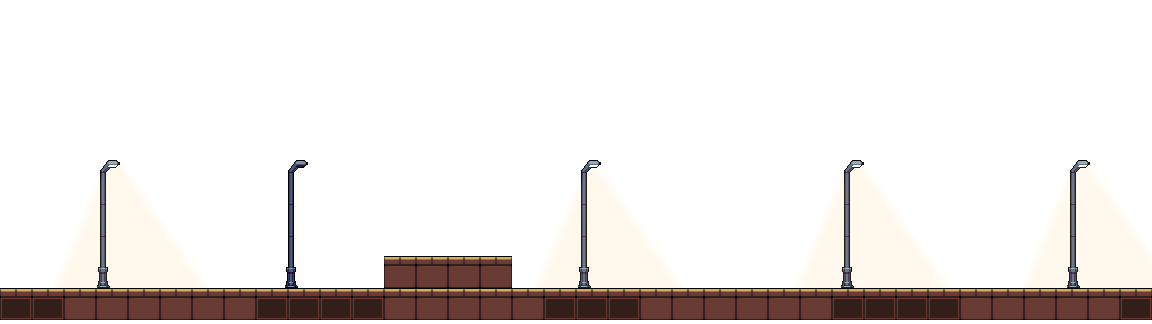
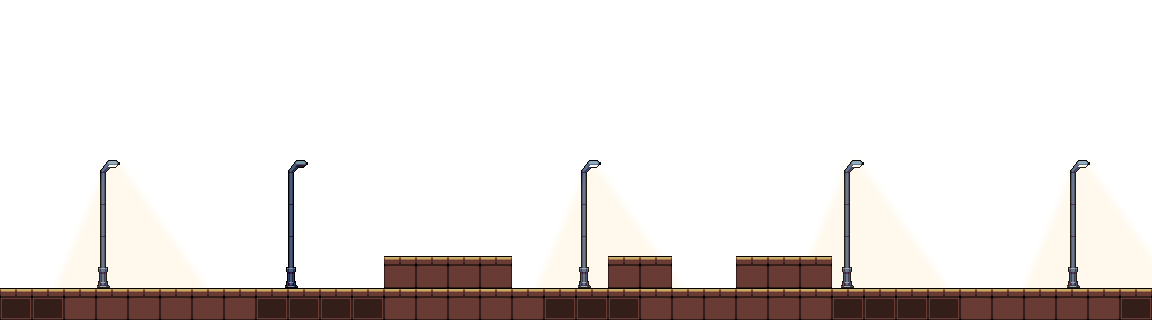
obstacles/platforms now working. jump while on platforms sorted

Changed region(s): [[0.625, 0.7716, 0.75, 0.8951], [0.5, 0.7716, 0.5938, 0.8951]]

diff --git a/js/main.js b/js/main.js
@@ -12,13 +12,6 @@ if(navigator.userAgent.indexOf("Firefox") != -1 ) {
     isFirefox=true;
 }
 
-
-// var tlIntroScreen = gsap.timeline();
-
-
-
-
-
 var bg_canvas = document.getElementById('bg-canvas');
 var bgOverlay_canvas = document.getElementById('bgOverlay-canvas');
 var fg_canvas = document.getElementById('fg-canvas');
@@ -57,7 +50,7 @@ var ctxEnemy = enemy_canvas.getContext('2d');
 var imageAdded= 0,
     imgLoaded = 0;
 
-var full_health = 1000;
+var full_health = 500;
 
 
 
@@ -75,11 +68,12 @@ var paused=false;
 var muted = false;
 var moving_backwards = false; 
 
-var tlJump = gsap.timeline({paused:true, onComplete:function(){
+var tlJump = gsap.timeline({paused:true});
+tlJump = gsap.timeline({paused:true, onStart:function(){  }, onComplete:function(){
     keysWait=false; 
-    isPlayer.jump=false
-    tljump_playing = false;
+    isPlayer.jump=false;
 }});
+
 
 var highlights=false;
 var frameRate = 100;
@@ -307,12 +301,6 @@ function init_renderPlayer() {
         player_jumpBack_img.onload = function(){
             imgLoaded++;
         }
-
-        // tlJump.to(player,.9,{y:player_groundY-player.jumpH,ease:"power3.out"},0).to(player,.8,{y:player_groundY,ease:"sine.in"},"<.7")
-        tlJump.to(player,.9,{y:"-="+player.jumpH+"px",ease:"power3.out",yoyo:true,repeat:1},0)
-        // tlJump.to("#player-canvas",.9,{y:-player.jumpH,ease:"power3.out"},0).to("#player-canvas",.8,{y:0,ease:"sine.in"},"<.7")
-        tlJump.duration(.6);
-
 }
 
 
@@ -365,13 +353,11 @@ function checkKeys(){
                 isPlayer.runBack=false;
                 isPlayer.idle=false;
                 isPlayer.run=true;
-                // keysWait=true;
             } else {
                 moving_backwards = true;
                 isPlayer.idle=false;
                 isPlayer.run=false;
                 isPlayer.runBack=true;
-                // keysWait=true;
             }
         }
         else if (Keyboard.isDown(Keyboard.LEFT)) { 
@@ -387,7 +373,7 @@ function checkKeys(){
         }
 
         if(Keyboard.isDown(Keyboard.UP)){
-            if(!jumping){
+            if(!jumpBtnDown){
                 jump();
             } else {
                 if(!moving_backwards) isPlayer.idle=true;
@@ -395,7 +381,7 @@ function checkKeys(){
             }
         }
         if(!Keyboard.isDown(Keyboard.UP)){
-            jumping=false;
+            jumpBtnDown=false;
         }
 
         if(!Keyboard.isDown(Keyboard.LEFT) 
@@ -407,6 +393,7 @@ function checkKeys(){
             isPlayer.attackBack=false;
             isPlayer.attack=false;
             isPlayer.jump=false;
+            jumpBtnDown=false;
 
 
             if(!moving_backwards) isPlayer.idle=true;
@@ -420,13 +407,16 @@ function checkKeys(){
 
 }
 
+var jumpBtnDown=false;
 function jump() {
     isPlayer.idle=false;
     isPlayer.idleBack=false;
     isPlayer.jump=true;
     keysWait=true;
-    jumping=true;
-    tlJump.seek(0).play();
+    jumpBtnDown=true;
+
+    setupJumpTL();
+    tlJump.restart();
 }
 
 function shoot(){
@@ -443,11 +433,13 @@ function shoot(){
 function forwards(){
     moving_backwards = false;
 
+
     isPlayer.idle=false;
     isPlayer.runBack=false;
     isPlayer.run=true;
 }
 function backwards() {
+    
     if(!moving_backwards){
         player.x=player.x-player.hitXB;
     }
@@ -502,7 +494,7 @@ function updateStage(){
 
         
 
-        // renderEnemy();
+        renderEnemy();
 
 
         
@@ -540,10 +532,14 @@ function updateStage(){
 function moveFg(){
     if(!moving_backwards){
         fg.x=fg.x-(moveFactor*x_moveAmount_fg);
-        obstacles.x=obstacles.x-(moveFactor*x_moveAmount_fg);
+        for(i=0; i<obstacle.length; i++){
+            obstacle[i].x=obstacle[i].x-(moveFactor*x_moveAmount_fg);
+        }
     } else {
         fg.x=fg.x+(moveFactor*x_moveAmount_fg);
-        obstacles.x=obstacles.x+(moveFactor*x_moveAmount_fg);
+        for(i=0; i<obstacle.length; i++){
+            obstacle[i].x=obstacle[i].x+(moveFactor*x_moveAmount_fg);
+        }
     }
 
 }
@@ -794,7 +790,7 @@ function renderPlayer() {
 
 }
 
-
+var onObstacle=false;
 function checkPlayerPosition() {
     
 // player is near edges of screen
@@ -825,26 +821,44 @@ function checkPlayerPosition() {
 
  
     if(highlights){
-        ctxFG.beginPath();
-        ctxFG.rect(obstacles.x, obstacles.y, obstacles.w, obstacles.h);
-        ctxFG.fillStyle = "rgba(255,255,0,.5)";
-        ctxFG.fill();
+        
+        for(i=0; i<obstacle.length; i++){
+            ctxFG.beginPath();
+            ctxFG.rect(obstacle[i].x, obstacle[i].y, obstacle[i].w, obstacle[i].h);
+            ctxFG.fillStyle = "rgba(255,255,0,.5)";
+            ctxFG.fill();
+        }
+        
     }
 
 
 // DEFINE PLAYER AREA
 
-    var playerR = player.x+player.hitW;
-    var playerL = player.x+player.hitX;
+    let playerR = player.x+player.hitW;
+    let playerL = player.x+player.hitX;
     if(moving_backwards) { playerL = player.x+player.hitXB; }
-    var playerT = player.y+player.hitY;
-    var playerB = playerT+player.hitH;
-    var playerH = player.hitH;
+    let playerT = player.y+player.hitY;
+    let playerB = playerT+player.hitH;
 
-    var obstacleR = obstacles.x+obstacles.w; 
-    var obstacleL = obstacles.x;
-    var obstacleT = obstacles.y;
-    var obstacleB = obstacles.y+obstacles.h;
+    
+
+    let obstacleR = obstacle[0].x+obstacle[0].w; 
+    let obstacleL = obstacle[0].x;
+    let obstacleT = obstacle[0].y;
+    let obstacleB = obstacle[0].y+obstacle[0].h;
+
+    if(obstacleR < playerL){
+        obstacleR = obstacle[1].x+obstacle[1].w; 
+        obstacleL = obstacle[1].x;
+        obstacleT = obstacle[1].y;
+        obstacleB = obstacle[1].y+obstacle[1].h;
+    }
+    if(obstacleR < playerL){
+        obstacleR = obstacle[2].x+obstacle[2].w; 
+        obstacleL = obstacle[2].x;
+        obstacleT = obstacle[2].y;
+        obstacleB = obstacle[2].y+obstacle[2].h;
+    }
 
 
 
@@ -856,7 +870,7 @@ function checkPlayerPosition() {
             x_moveAmount_bg=0;
 
 // if within obstacle but above it:
-        } else if(playerR > obstacleL && playerL < obstacleR && playerB <= obstacleT){ 
+        } else if(playerR > obstacleL && playerL < obstacleR && playerB < obstacleT){ 
 
             x_moveAmount_bg=1;
             
@@ -867,36 +881,32 @@ function checkPlayerPosition() {
                 player.x-=2;
             }
 
-
+            // you're jumping into the obs area but not yet on it's level
+            if(tlJump.isActive() && !onObstacle) {
             
-            if(tlJump.isActive()){
                 tlJump.pause();
-                
-                if(player.y<obstacleT-player.height){
-                    gsap.to(player,.2,{y:obstacleT-player.height,ease:"power3.in",onComplete:function(){
-                        keysWait=false; 
-                        isPlayer.jump=false
-                        tljump_playing = false;
-                        player_ground.y=playerB;
-                    }},0)
-                } else {
-                    gsap.to(player,0.01,{y:obstacleT-player.height,onComplete:function(){
-                        keysWait=false; 
-                        isPlayer.jump=false
-                        tljump_playing = false;
-                        player_ground.y=playerB;
-                    }},0)
-                }
-            } else {
-                // player.y=obstacleT-player.hitH;
-            }
 
+                if(player.y<obstacleT-player.height){
+                    gsap.to(player,.2,{y:obstacleT-player.height-1,ease:"power3.in",onComplete:function(){
+                        keysWait=false; 
+                        isPlayer.jump=false;
+                        onObstacle=true;
+
+                        setupJumpTL();
+                    }},0)
+                } 
+            } 
 
 // not within obstacle
         } else {
+
             if(!tlJump.isActive()){
-                player.y=player_ground.y;
+                if(playerR < obstacleL || playerL > obstacleR){
+                    onObstacle=false;
+                    player.y=player_ground.floor;
+                }
             }
+
 
             x_moveAmount_bg=1;
             if(isPlayer.run){
@@ -1013,6 +1023,24 @@ function checkPlayerPosition() {
             isEnemy.run=false;
         }
     }
+}
+
+function setupJumpTL(){
+    if(onObstacle){ 
+        player_ground.y=player_ground.floor-obstacle[0].h;
+    } else {
+        player_ground.y=player_ground.floor;
+    }
+
+    tlJump = gsap.timeline({paused:true, onComplete:function(){
+        keysWait=false; 
+        isPlayer.jump=false;
+    }});
+    
+    tlJump.addLabel('up', 0)
+        .to(player,{y:function(){ return player_ground.y-player.jumpH },ease:"power3.out", duration:0.338},"up")
+        .addLabel('down', ">")
+        .to(player,0.263,{y:function(){ return player_ground.y },ease:"sine.in"},"down");
 }
 
     

diff --git a/index.html b/index.html
@@ -39,7 +39,7 @@
         */
         function cssLoadedHandler()
         {
-            console.log("CSS LOADED");
+            // console.log("CSS LOADED");
             // start loading external JS
             loadExtJavaScript();
         }
@@ -73,7 +73,7 @@
         */
         function jsLoadedHandler()
         {
-            console.log("JS LOADED (" + arrExtJs[loadJsIndex] + ")");
+            // console.log("JS LOADED (" + arrExtJs[loadJsIndex] + ")");
 
             loadJsIndex++;
 

diff --git a/js/fg-vars.js b/js/fg-vars.js
@@ -2,14 +2,9 @@
 
 var fg = {url:"images/Foreground/fg.png", x:0,y:0,width:1152,height:324,cellW:32};
 
-var fgObstacles = [];
-
-for(i=0; i<(fg.width/fg.cellW); i++){
-	fgObstacles[i]=false;
-}
-fgObstacles[12]=true;
-var obstacles = {x:0}
-obstacles.x=384;
-obstacles.y=(32*8);
-obstacles.w=(32*4);
-obstacles.h=32;
+	
+var obstacle = [
+	{x:384,y:(32*8),w:(32*4),h:32},
+	{x:608,y:(32*8),w:(32*2),h:32},
+	{x:736,y:(32*8),w:(32*3),h:32}
+]

diff --git a/js/player-vars.js b/js/player-vars.js
@@ -1,6 +1,6 @@
-var player_ground={y:320-48-32}
-// player_ground.y = 320-48-32;
+var player_ground={y:240,floor:240}
 var player = {x:0,y:player_ground.y,width:48,height:48,hitW:30,hitX:0,hitXB:20,hitH:36,hitY:12,health:500,jumpH:60};
+// player.y=player_ground.y-player.height;
 
 
 var isPlayer = {

diff --git a/js/keys.js b/js/keys.js
@@ -26,7 +26,7 @@ Keyboard._onKeyDown = function (event) {
     }
     if(firstpress){
         firstpress=false;
-        if(!noAudio) audio.play();
+        if(!noAudio) { audio.play(); }
     }
 };
 
